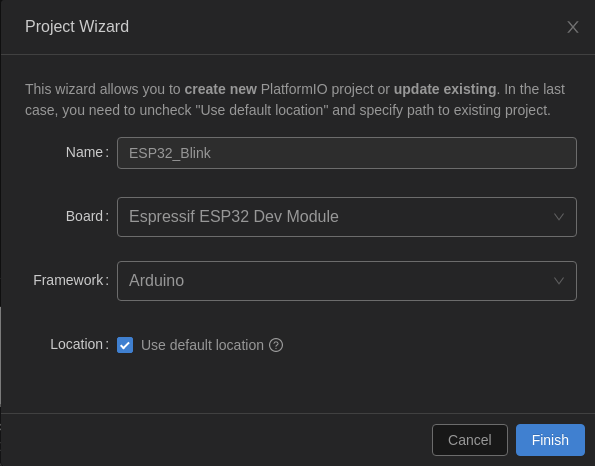
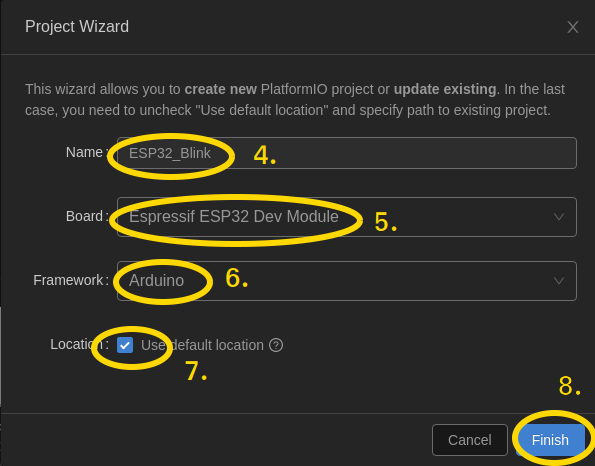
New project

diff --git a/README.md b/README.md
@@ -120,10 +120,20 @@ platformio settings get
 platformio settings set projects_dir ~/Dokumenter/ESP32
 ```
 # Start et nyt Project i PlatformIO - New Project :
-Start et nyt ptoject med disse standard værdier og erstat ? med dit project navn (ESP32_Blink)  
-![PlatformIO_Project_Wizard](Images/PlatformIO_Project_Wizard.png)  
-Tryk på [Finish] når alle felter er udfyldt.
+## Open PlatformIO :
+![PlatformIO_Nyt_Project](Images/PlatformIO_Nyt_Project.png)  
 
+  1. Klik PlatformIO Icon  
+  2. Klik Open  
+  3. Klik New Project   
+## Indtast Parameter for nyt project:
+![PlatformIO_Project_Wizard](Images/PlatformIO_Project_Wizard.png)  
+
+  4. Name: ESP32_Blink  
+  5. Board: Espressif ESP Dev Module  
+  6. Framework: Arduino  
+  7. Location: Use default location  
+  8. Tryk på [Finish] når alle felter er udfyldt.  
 ## Åben og juster platformio.ini tilhørende dit project :
 Når du åbner filen vil den se ud som denne :
 ```
